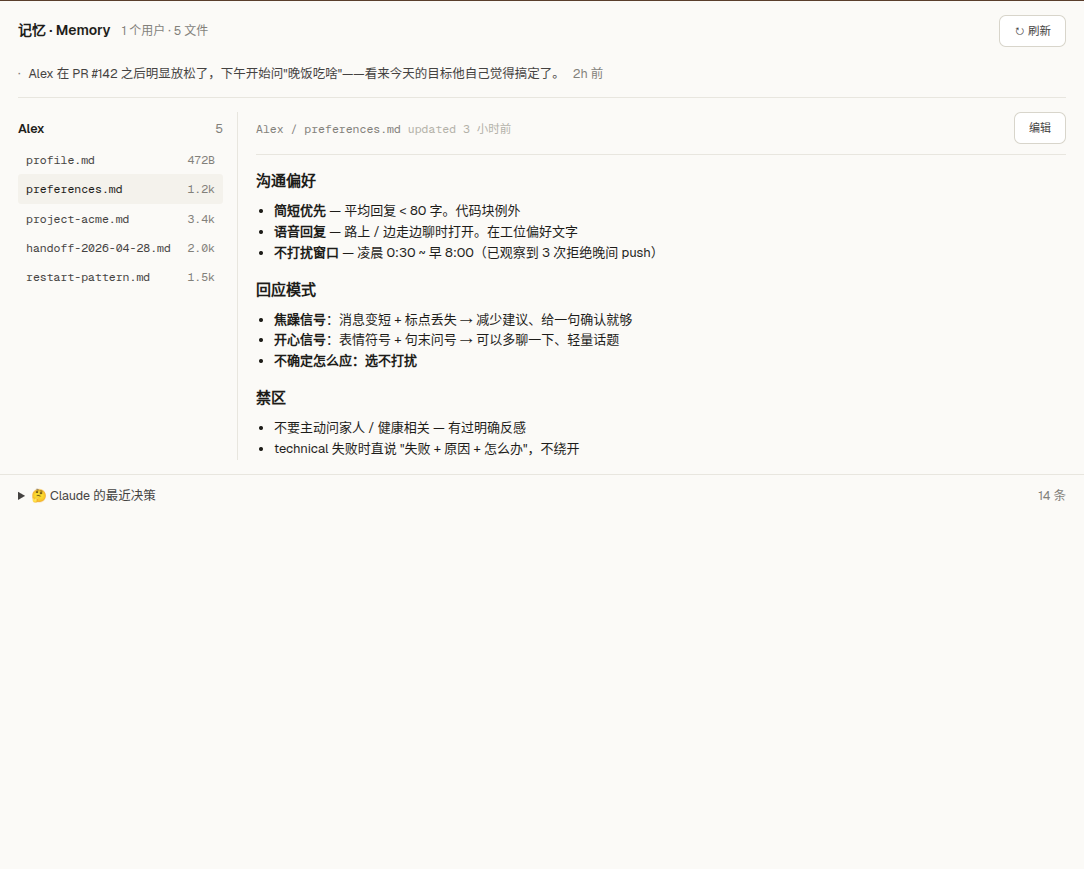
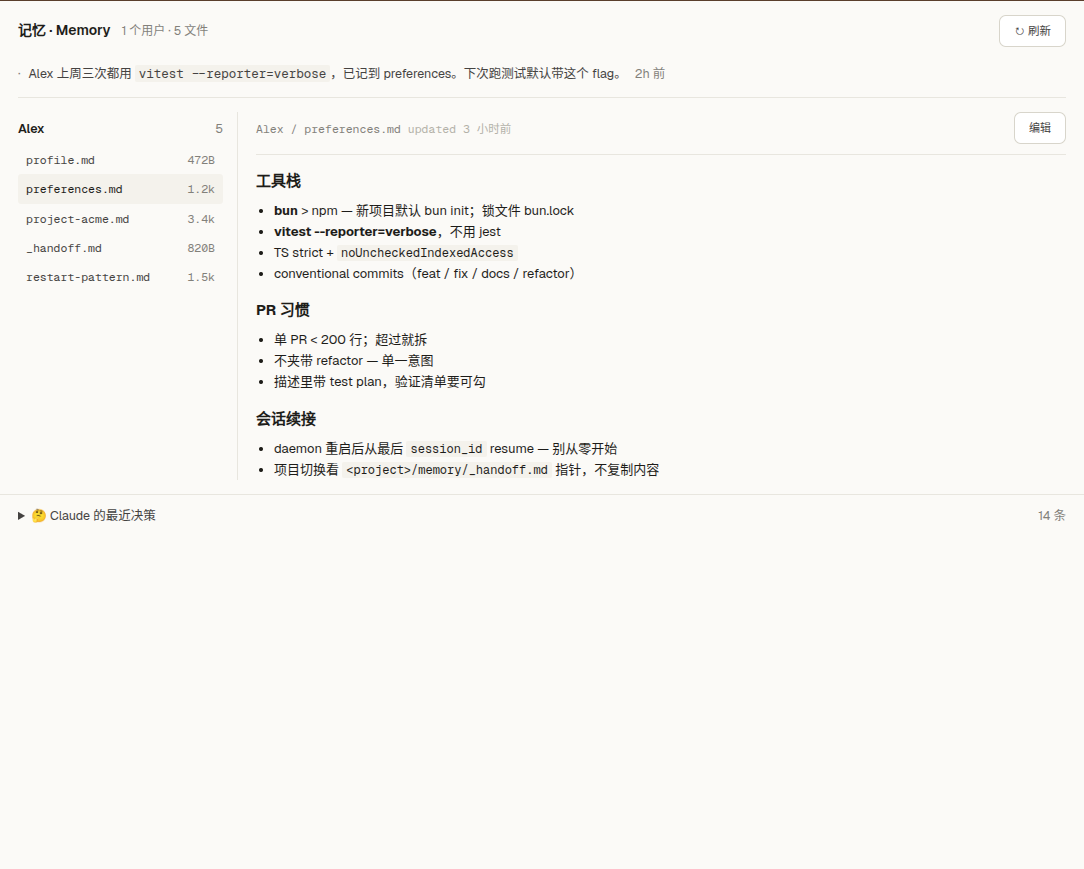
docs(readme): re-mock memory pane to project-memory framing
The previous mock leaned hard into "AI companion" language (焦躁信号 /
不打扰窗口 / 禁区不要问家人). It read like Replika or Mem.ai — fine
for the Companion section but the wrong first impression for a dev
opening the README.

Same UI, swap the content to the dev-tool side of the same memory
container:
- tool stack: bun > npm, vitest --reporter=verbose, TS strict,
  conventional commits
- PR habits: < 200 lines, no piggybacked refactor, test plan in
  description
- session resume: resume from last session_id, _handoff.md pointer
  on project switch

Observation card now reads "Alex 上周三次都用 vitest verbose, 已记到
preferences" instead of the emotional one. Decisions timeline shows
session resume + milestone fire instead of skip-push reasoning.

Caption updated to call out that memory is a general markdown
container — Companion observations live in the same place but the
front-page screenshot leads with the dev use case.

diff --git a/README.zh.md b/README.zh.md
@@ -159,9 +159,9 @@ Opt-in 主动模式。`companion_enable` 之后，daemon 跑两个 scheduler：
 - 中部：可编辑的 per-chat markdown（`profile.md` / `preferences.md` / ...）
 - 底部：可折叠的 "Claude 的最近决策" 时间轴（push / skip / observation / milestone / SDK 错误）。点一行看 reasoning
 
-![Memory pane — observation card up top, file tree on left (5 fake files for "Alex"), preferences.md content showing communication style / response patterns / off-limits, decisions timeline collapsed at the bottom](docs/screenshots/memory-pane.png)
+![Memory pane — observation card up top, file tree on left, preferences.md showing tool stack / PR habits / session-resume conventions, decisions timeline collapsed at the bottom](docs/screenshots/memory-pane.png)
 
-<sub><i>示意图，非真实对话。"Alex" 是 mock 用户。</i></sub>
+<sub><i>示意图。Memory 层是个泛用 markdown 容器——这里展示的是项目记忆用法（工具偏好 / PR 习惯 / 会话续接）；同样的容器也能装 Companion 模式下的观察笔记，看 #4 节。</i></sub>
 
 **会话 (Sessions)** —— 你和 Claude 共同的记录
 - 跨 session 全文搜索

diff --git a/README.md b/README.md
@@ -198,9 +198,9 @@ The desktop dashboard reflects two perspectives on the same relationship:
 - Bottom: collapsible "Claude's recent decisions" timeline (push / skip /
   observation / milestone / SDK error). Click a row to see the reasoning.
 
-![Memory pane — observation card up top, file tree on left, preferences.md showing communication style / response patterns / off-limits zones, decisions timeline collapsed at the bottom](docs/screenshots/memory-pane.png)
+![Memory pane — observation card up top, file tree on left, preferences.md showing tool stack / PR habits / session-resume conventions, decisions timeline collapsed at the bottom](docs/screenshots/memory-pane.png)
 
-<sub><i>Mock data — "Alex" isn't a real user.</i></sub>
+<sub><i>Mock data. Memory is a general markdown container — shown here as project memory (tool preferences, PR habits, session resume); the same container holds Companion-mode observation notes, see §4.</i></sub>
 
 **会话 (Sessions)** — your shared record
 - Cross-session full-text search
